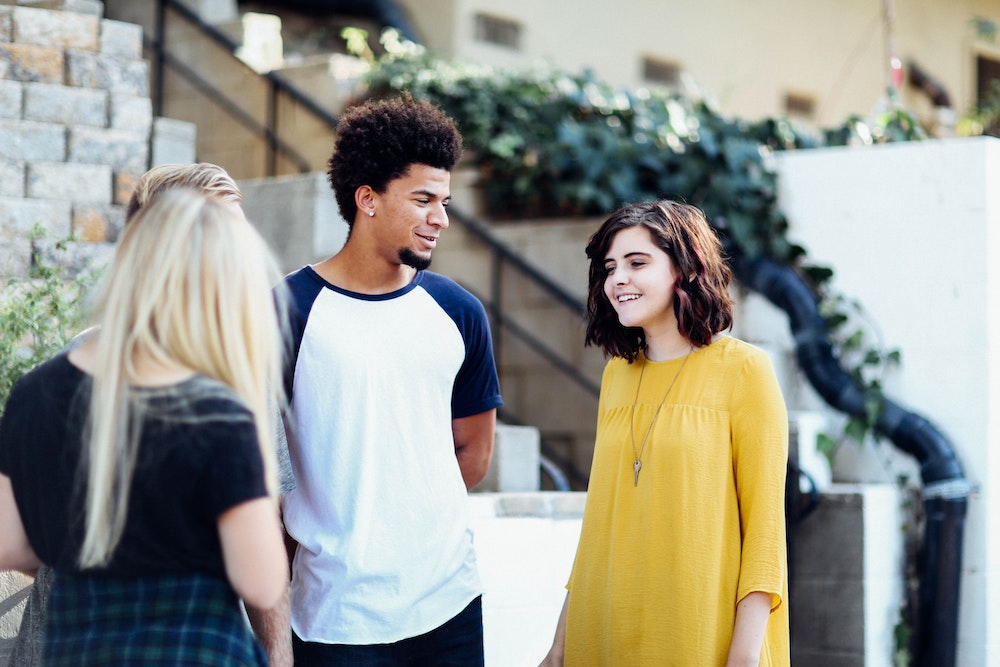
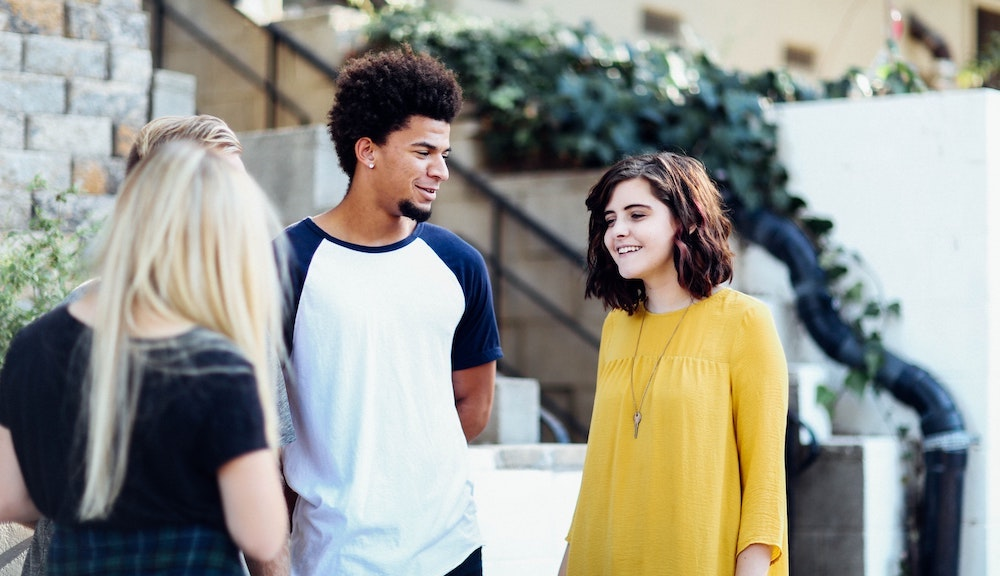
Add changes

diff --git a/assets/content.js b/assets/content.js
@@ -78,13 +78,17 @@ const home = {
         }
     ],
     news: [
-        // {
-        //     image: "/images/logotype.png",
-        //     label: "The Earth Prize",
-        //     summary: "The Earth Foundation will launch April 19th, 2021.",
-        // },
+        {
+            image: "/images/people.jpg",
+            imageCover: true,
+            label: "The Earth Prize is looking for mentors!",
+            text: "",
+            button: "Find out more about The Earth Prize mentors",
+            buttonRoute: "/mentors",
+        },
         {
             image: "/images/earthLogoVertical.png",
+            imageCover: false,
             label: "Webinar for Teachers & Schools",
             text: "Wednesday May 26h at 18:00 (CEST)",
             button: "Register for the webinar",
@@ -92,6 +96,7 @@ const home = {
         },
         {
             image: "/images/earthPrizeLogo.png",
+            imageCover: false,
             label: "The Earth Prize Launch Webinar",
             text: "",
             button: "Watch webinar",
@@ -230,13 +235,14 @@ const schools = [
     { image: "/images/schools/bradfield.jpg", url: 'https://www.bradfieldcollege.org.uk'},
     { image: "/images/schools/cdl.png", url: 'https://www.nordangliaeducation.com/en/our-schools/switzerland/cdl'},
     { image: "/images/schools/ecolint.png", url: 'https://www.ecolint.ch'},
-    // { image: "/images/schools/gcds.jpg", url: 'https://www.gcds.net'},
+    { image: "/images/schools/gcds.jpg", url: 'https://www.gcds.net'},
     { image: "/images/schools/hpa.png", url: 'https://www.hpa.edu'},
     { image: "/images/schools/ic.jpeg", url: 'https://www.ic.edu.lb'},
     { image: "/images/schools/lerosey.png", url: 'https://www.rosey.ch'},
     { image: "/images/schools/punahou.jpg", url: 'https://www.punahou.edu'},
-    { image: "/images/schools/stmark.png", url: ''},
+    { image: "/images/schools/stmark.png", url: 'https://www.stmarksschool.org'},
     { image: "/images/schools/samata.png", url: 'https://web.facebook.com/Samata-school-the-bamboo-school-of-nepal-566066840153279/?_rdc=1&_rdr'},
+    { image: "/images/schools/iolani.png", url: 'https://www.iolani.org'},
 ]
 
 const earthPrize = {

diff --git a/styles/latest.module.scss b/styles/latest.module.scss
@@ -13,12 +13,18 @@
         max-width: 1014px;
         width: 100%;
         margin: 0 auto;
+        display: flex;
+        align-items: center;
         @media (min-width: $breakpoint) { height: 460px; }
+        @media (max-width: $breakpoint) {
+            flex-direction: column;
+        }
         .control {
             width: 200px;
             height: 200px;
             background: #CEAA7A;
             position: relative;
+            flex-shrink: 0;
             @media (max-width: $breakpoint) {
                 height: 200px;
                 width: 100% !important;
@@ -201,6 +207,7 @@
         }
         .carousel {
             position: relative;
+            flex-grow: 1;
             @media (max-width: $breakpoint) {
                 top: -60px;
                 left: 40px;

diff --git a/pages/awards.jsx b/pages/awards.jsx
@@ -142,8 +142,8 @@ const Awards = props => {
                             <div className = {styles.header}>
                                 <div className = {styles.text}>
                                     <FontAwesomeIcon icon = {faQuoteLeft} />
-                                    <span>Carbon<br /></span>
-                                    <span>Offsetting</span>
+                                    <span>To be <br /></span>
+                                    <span>announced</span>
                                     <FontAwesomeIcon icon = {faQuoteRight} />
                                 </div>
                             </div>

diff --git a/components/Card.js b/components/Card.js
@@ -10,7 +10,7 @@ import styles from "../styles/card.module.scss";
 const Card = props => {
     return (
             <section className = {styles.card}>
-                <div className = {styles.cover} style = {{background:`url(${props.image})`}}></div>
+                <div className = {styles.cover} style = {{ backgroundSize: props.imageCover ? 'cover' : 'contain', backgroundImage:`url(${props.image})` }} />
               <div className = {styles.wrapper}>
                 <p className = {styles.label}>{props.label}
                 </p>

diff --git a/styles/card.module.scss b/styles/card.module.scss
@@ -16,7 +16,6 @@
         margin-bottom: 20px;
         background-position: center !important;
         background-repeat: no-repeat !important;
-        background-size: contain !important;
         flex-shrink: 0;
     }
 
